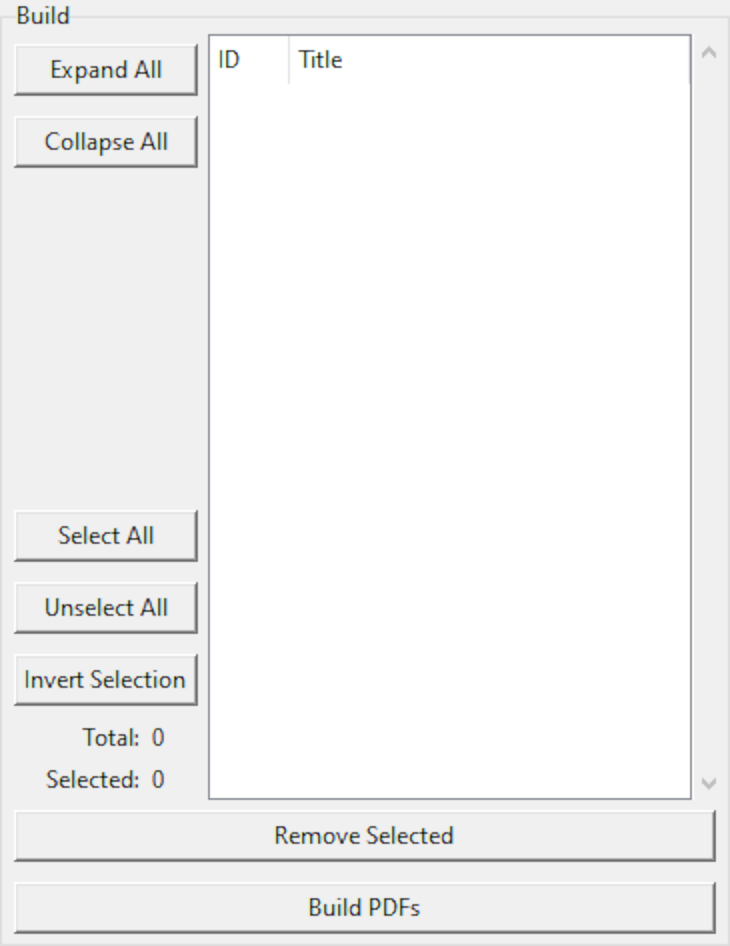
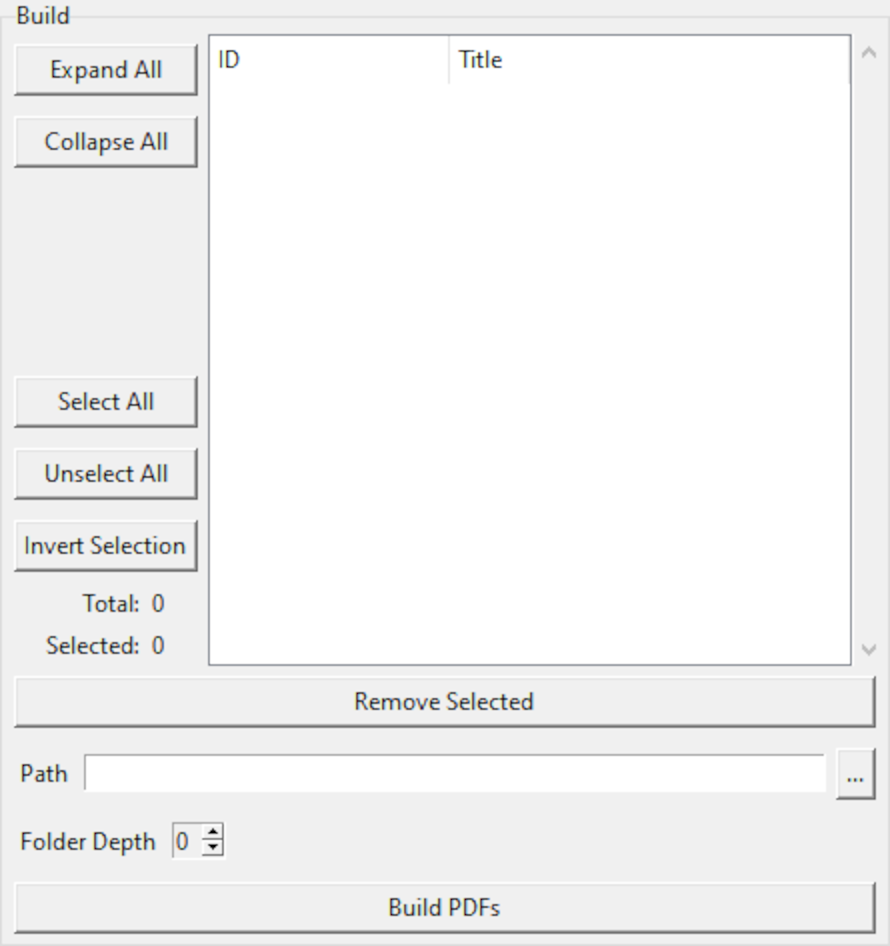
Add GUI output path selections.

diff --git a/tests/gui/test_buildlist.py b/tests/gui/test_buildlist.py
@@ -69,6 +69,108 @@ class RemoveButton(unittest.TestCase):
         self.assertEqual(expected, actual)
 
 
+class Path(unittest.TestCase):
+    """Tests for the output path entry."""
+
+    def setUp(self):
+        utils.reset()
+        atform.add_test("a test")
+        atform.gui.buildlist.BuildList(None, "spam", 0)
+        atform.gui.buildlist.add({(1,)})
+        self.entry = utils.find_widget_by_class(
+            atform.gui.buildlist.BuildList.instance, "Entry"
+        )
+
+    def test_initialize(self):
+        """Confirm path is initialized with the BuildList parameter."""
+        self.assertEqual("spam", self.entry.get())
+
+    @patch("atform.gui.buildlist.filedialog.askdirectory")
+    def test_select(self, mock_dialog):
+        """Confirm selecting a new folder changes the current path."""
+        mock_dialog.return_value = "foo"
+        self.click_select()
+        self.assertEqual("foo", self.entry.get())
+
+    @patch("atform.gui.buildlist.filedialog.askdirectory")
+    def test_cancel(self, mock_dialog):
+        """Confirm cancelling the folder selection dialog leaves the path unaffected."""
+        mock_dialog.return_value = None
+        self.click_select()
+        self.assertEqual("spam", self.entry.get())
+
+    @patch("atform.gui.buildlist.filedialog.askdirectory")
+    @patch("atform.gui.build.build")
+    def test_build_parameter(self, mock_build, mock_dialog):
+        """Confirm current path is passed to the builder."""
+        # Simulate selecting something other than the default value.
+        mock_dialog.return_value = "foo"
+        self.click_select()
+
+        click_build()
+        mock_build.assert_called_with({(1,)}, "foo", 0)
+
+    def click_select(self):
+        """Simulates clicking the button to open the folder selection dialog."""
+        utils.click_button(atform.gui.buildlist.BuildList.instance, "...")
+
+
+class FolderDepth(unittest.TestCase):
+    """Tests for the folder depth control."""
+
+    def setUp(self):
+        utils.reset()
+
+    def test_initialize(self):
+        """Confirm depth is initialized with the BuildList parameter."""
+        atform.set_id_depth(3)
+        atform.gui.buildlist.BuildList(None, "spam", 2)
+        spin = self.get_widget()
+        self.assertEqual(2, int(spin.get()))
+
+    def test_readonly(self):
+        """Confirm direct entry is prohibited."""
+        spin = self.get_widget()
+        self.assertEqual("readonly", spin.cget("state"))
+
+    def test_range_single_level(self):
+        """Confirm allowable range when ID depth is one."""
+        atform.gui.buildlist.BuildList(None, "spam", 0)
+        spin = self.get_widget()
+        self.assertEqual(0, int(spin.cget("from")))
+        self.assertEqual(0, int(spin.cget("to")))
+
+    def test_range_multiple_level(self):
+        """Confirm allowable range when ID depth is greater than one."""
+        atform.set_id_depth(3)
+        atform.gui.buildlist.BuildList(None, "spam", 0)
+        spin = self.get_widget()
+        self.assertEqual(0, int(spin.cget("from")))
+        self.assertEqual(2, int(spin.cget("to")))
+
+    @patch("atform.gui.build.build")
+    def test_build_parameter(self, mock_build):
+        """Confirm current value is passed to the builder."""
+        atform.set_id_depth(3)
+        atform.add_test("foo")
+        atform.gui.buildlist.BuildList(None, "spam", 2)
+        atform.gui.buildlist.add({(1, 1, 1)})
+
+        # Click the down button to shift off the default value.
+        spin = self.get_widget()
+        spin.invoke("buttondown")
+
+        click_build()
+        mock_build.assert_called_with({(1, 1, 1)}, "spam", 1)
+
+    def get_widget(self):
+        """Finds the spin box widget."""
+        return utils.find_widget_by_class(
+            atform.gui.buildlist.BuildList.instance,
+            "Spinbox",
+        )
+
+
 @patch("atform.gui.build.build")
 class BuildButton(unittest.TestCase):
     """Tests for the build button."""
@@ -80,56 +182,31 @@ class BuildButton(unittest.TestCase):
 
     def test_none_selected(self, mock_build):
         """Confirm all tests are built when none are selected."""
-        atform.gui.buildlist.BuildList(None, None, None)
+        atform.gui.buildlist.BuildList(None, "path", 0)
         atform.gui.buildlist.add({(1,), (2,)})
         atform.gui.buildlist.BuildList.instance.testlist.tree.selection_set()
         click_build()
-        mock_build.assert_called_once_with({(1,), (2,)}, None, None)
+        mock_build.assert_called_once_with({(1,), (2,)}, "path", 0)
 
     def test_some_selected(self, mock_build):
         """Confirm all tests are built when some are selected."""
-        atform.gui.buildlist.BuildList(None, None, None)
+        atform.gui.buildlist.BuildList(None, "path", 0)
         atform.gui.buildlist.add({(1,), (2,)})
         atform.gui.buildlist.BuildList.instance.testlist.tree.selection_set((1,))
         click_build()
-        mock_build.assert_called_once_with({(1,), (2,)}, None, None)
+        mock_build.assert_called_once_with({(1,), (2,)}, "path", 0)
 
     def test_empty(self, mock_build):
         """Confirm nothing is built if the list is empty."""
-        atform.gui.buildlist.BuildList(None, None, None)
+        atform.gui.buildlist.BuildList(None, "path", 0)
         click_build()
         mock_build.assert_not_called()
 
     def test_clear_after(self, _mock_build):
         """Confirm listing is cleared after building."""
-        atform.gui.buildlist.BuildList(None, None, None)
+        atform.gui.buildlist.BuildList(None, "path", 0)
         atform.gui.buildlist.add({(1,), (2,)})
         click_build()
         self.assertEqual(
             set(), atform.gui.buildlist.BuildList.instance.testlist.all_tests
         )
-
-
-@patch("atform.gui.build.build")
-class BuildParameters(unittest.TestCase):
-    """Tests for parameters passed to the builder."""
-
-    def setUp(self):
-        utils.reset()
-
-    def test_path(self, mock_build):
-        """Confirm the path parameter is passed to build."""
-        atform.add_test("title")
-        atform.gui.buildlist.BuildList(None, "foo", None)
-        atform.gui.buildlist.add({(1,)})
-        click_build()
-        self.assertEqual("foo", mock_build.call_args[0][1])
-
-    def test_folder_depth(self, mock_build):
-        """Confirm the folder depth parameter is passed to build."""
-        atform.set_id_depth(3)
-        atform.add_test("foo")
-        atform.gui.buildlist.BuildList(None, None, 2)
-        atform.gui.buildlist.add({(1, 1, 1)})
-        click_build()
-        self.assertEqual(2, mock_build.call_args[0][2])

diff --git a/atform/gui/buildlist.py b/atform/gui/buildlist.py
@@ -1,9 +1,12 @@
 """Top-level frame containing the list of tests that will be built."""
 
+import os
 import tkinter as tk
+from tkinter import filedialog
 
 from . import build
 from . import common
+from .. import misc
 from . import testlist
 from . import tkwidget
 
@@ -19,16 +22,17 @@ class BuildList(tkwidget.LabelFrame):  # pylint: disable=too-many-ancestors
 
     def __init__(self, parent, path, folder_depth):
         super().__init__(parent, text="Build")
-        self.path = path
-        self.folder_depth = folder_depth
         self.testlist = testlist.TestList(self)
-        self._add_buttons()
+        self._add_remove_button()
+        self.path = self._add_path(path)
+        self.folder_depth = self._add_folder_depth(folder_depth)
+        self._add_build_button()
 
         # Store this instance so the build list is accessible at module level.
         BuildList.instance = self
 
-    def _add_buttons(self):
-        """Creates the buttons."""
+    def _add_remove_button(self):
+        """Creates the remove selected button."""
         btn = tkwidget.Button(
             self,
             text="Remove Selected",
@@ -36,6 +40,69 @@ class BuildList(tkwidget.LabelFrame):  # pylint: disable=too-many-ancestors
         )
         btn.pack(fill=tk.X, padx=common.SMALL_PAD, pady=common.SMALL_PAD)
 
+    def _add_path(self, path):
+        """Creates the path entry field."""
+        frame = tkwidget.Frame(self)
+        frame.pack(fill=tk.X, padx=common.SMALL_PAD, pady=common.SMALL_PAD)
+
+        lbl = tkwidget.Label(frame, text="Path")
+        lbl.pack(side=tk.LEFT)
+
+        var = tkwidget.StringVar()
+        var.set(path)
+
+        entry = tkwidget.Entry(
+            frame,
+            textvariable=var,
+        )
+        entry.pack(
+            side=tk.LEFT,
+            expand=tk.TRUE,
+            fill=tk.X,
+            padx=common.SMALL_PAD,
+        )
+
+        btn = tkwidget.Button(
+            frame,
+            text="...",
+            command=self._on_path_click,
+        )
+        btn.pack(side=tk.RIGHT)
+
+        return var
+
+    def _add_folder_depth(self, folder_depth):
+        """Creates the folder depth selector.
+
+        The Spinbox widget is created as read-only so it can only be adjusted
+        via the up and down buttons. As this control is likely to be used
+        sparingly for small increments, prohibiting direct entry removes the
+        need for a validation function.
+        """
+        frame = tkwidget.Frame(self)
+        frame.pack(fill=tk.X, padx=common.SMALL_PAD, pady=common.SMALL_PAD)
+
+        lbl = tkwidget.Label(frame, text="Folder Depth")
+        lbl.pack(side=tk.LEFT)
+
+        var = tkwidget.IntVar()
+        var.set(folder_depth)
+
+        to = misc.max_folder_depth()
+        spin = tkwidget.Spinbox(
+            frame,
+            textvariable=var,
+            from_=0,
+            to=to,
+            width=len(str(to)) + 1,  # Fit largest value plus some extra space.
+            state="readonly",
+        )
+        spin.pack(side=tk.LEFT, padx=common.SMALL_PAD)
+
+        return var
+
+    def _add_build_button(self):
+        """Creates the build PDFs button."""
         btn = tkwidget.Button(
             self,
             text="Build PDFs",
@@ -51,10 +118,19 @@ class BuildList(tkwidget.LabelFrame):  # pylint: disable=too-many-ancestors
         """Event handler for the build button."""
         tests = self.testlist.all_tests
         if tests:
-            build.build(tests, self.path, self.folder_depth)
+            build.build(tests, self.path.get(), self.folder_depth.get())
             self.testlist.clear()
 
     def _on_remove(self):
         """Event handler for the remove button."""
         for tid in self.testlist.selected_tests:
             self.testlist.remove_test(tid)
+
+    def _on_path_click(self):
+        """Event handler for the path select button."""
+        path = filedialog.askdirectory(
+            title="PDF Output Folder",
+            initialdir=os.getcwd(),
+        )
+        if path:
+            self.path.set(path)

diff --git a/atform/gen.py b/atform/gen.py
@@ -7,6 +7,7 @@ from . import arg
 from . import cache
 from . import idlock
 from . import error
+from . import misc
 from . import parallelbuild
 from . import pdf
 from . import state
@@ -114,8 +115,10 @@ def generate(*, path="pdf", folder_depth=0):
             "Folder depth must be an integer.",
         )
 
-    max_depth = len(state.current_id) - 1
-    if (folder_depth < 0) or (folder_depth > max_depth):
+    try:
+        misc.validate_folder_depth(folder_depth)
+    except ValueError as e:
+        max_depth = misc.max_folder_depth()
         if max_depth:
             remedy = f"""
             The folder depth must be within 0 and {max_depth}, inclusive.
@@ -129,7 +132,7 @@ def generate(*, path="pdf", folder_depth=0):
         raise error.UserScriptError(
             "Invalid folder depth value.",
             remedy,
-        )
+        ) from e
 
     args = arg.parse()
     vcs.load()

diff --git a/tests/gui/igtest.py b/tests/gui/igtest.py
@@ -142,9 +142,11 @@ class Resize(InteractiveGuiTestCase):
     """Window resizing tests."""
 
     def test_horizontal(self):
-        """Stretch the window horitontally and ensure only the test list title columns expand."""
+        """Confirm correct horizontal resizing."""
         atform.add_test("title")
-        self.start_gui()
+        self.start_gui(
+            instruction="Stretch the window horizontally and ensure the test list title columns and Build path entry expand.",
+        )
 
     def test_vertical(self):
         """Stretch the window vertically and ensure the test lists and preview areas expand."""

diff --git a/atform/misc.py b/atform/misc.py
@@ -60,6 +60,17 @@ def validate_field_length(length):
     return length
 
 
+def max_folder_depth():
+    """Computes the maximum allowable folder depth."""
+    return len(state.current_id) - 1
+
+
+def validate_folder_depth(depth):
+    """Validates a folder depth value."""
+    if (depth < 0) or (depth > max_folder_depth()):
+        raise ValueError
+
+
 ################################################################################
 # Public API
 #

diff --git a/atform/gui/tkwidget.py b/atform/gui/tkwidget.py
@@ -84,6 +84,11 @@ class ScrolledText(tk.scrolledtext.ScrolledText):
 
 
 @add_instance_storage
+class Spinbox(tk.Spinbox):
+    pass
+
+
+@add_instance_storage
 class StringVar(tk.StringVar):
     pass
 

diff --git a/doc/source/gui.rst b/doc/source/gui.rst
@@ -185,6 +185,10 @@ regardless of which, if any, are selected. To remove items from this list,
 select them in the same manner as the :ref:`gui_select_list` panel,
 and click the :guilabel:`Remove Selected` button.
 
+The :guilabel:`Path` and :guilabel:`Folder Depth` options are equivalent
+to the :py:func:`atform.generate` parameters of the same name,
+allowing the PDF output directory to be altered without script modification.
+
 A pop-up dialog will appear while building output documents, displaying
 progress and any errors. The build process may be cancelled by
 closing the pop-up dialog.
